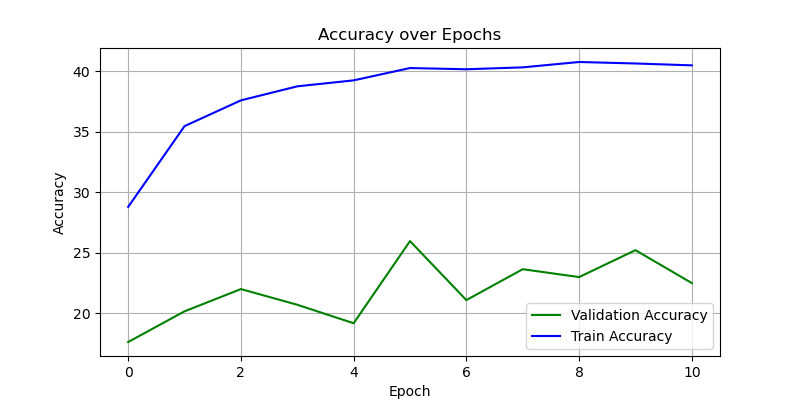
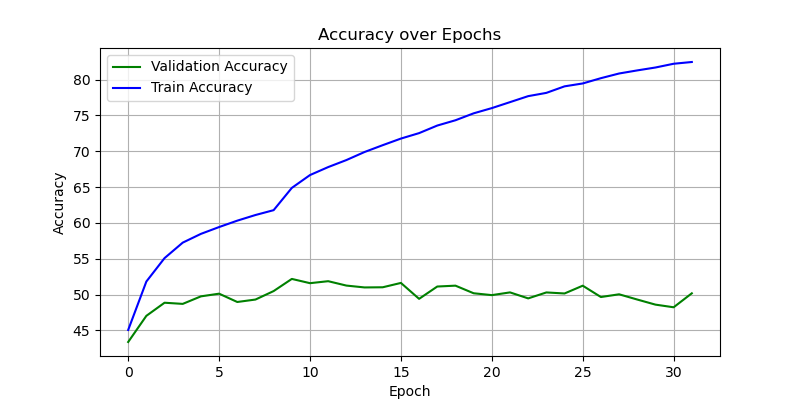
update train_style_encoder(v6) and face_datamodule

diff --git a/train_style_encoder.py b/train_style_encoder.py
@@ -45,40 +45,39 @@ class EarlyStopping:
         model.load_state_dict(self.best_model_state)
 
 class StyleEncoderContrastive(nn.Module):
-    def __init__(self, external_mapping, channels=512, features=26, num_classes=7):
+    def __init__(self, external_mapping, channels=512, features=26,  num_classes=7):
+        # features is K*k +1 which here k is 5
         super(StyleEncoderContrastive, self).__init__()
         self.external_mapping = external_mapping
         self.channels = channels
         self.features = features
-
-        self.global_pool = nn.AdaptiveAvgPool1d(1)  # convert (B, C, T) to (B, C)
+        self.flatten = nn.Flatten()
 
         self.classifier = nn.Sequential(
-            nn.BatchNorm1d(features * features),
-            nn.Linear(features * features, 512),
+            nn.Linear(channels*features, 512),
             nn.ReLU(),
             nn.Dropout(0.3),
 
-            nn.BatchNorm1d(512),
             nn.Linear(512, 256),
             nn.ReLU(),
             nn.Dropout(0.3),
 
-            nn.BatchNorm1d(256),
-            nn.Linear(256, num_classes)
+            nn.Linear(256, 128),
+            nn.ReLU(),
+            nn.Dropout(0.3),
+
+            nn.Linear(128, num_classes)
         )
 
     def forward(self, features):
-        z = self.external_mapping(features)  # shape: (B, 26, 512)
-        z_t = z.transpose(1, 2)  # (B, 512, 26)
-        z_pooled = self.global_pool(z_t).squeeze(-1)  # (B, 512)
+        # features[0] shape: torch.Size([8, 64, 56, 56])
 
-        z_out = torch.bmm(z, z_pooled.unsqueeze(2)).squeeze(-1)  # (B, 26)
-        z_out = torch.bmm(z_out.unsqueeze(2), z_out.unsqueeze(1))  # (B, 26, 26)
-        z_out = z_out.view(z_out.size(0), -1)  # Flatten to (B, 676)
+        z = self.external_mapping(features)  # spatial: (B, C, H, W)
+        # z shape: torch.Size([8, 26, 512])
+        z = self.flatten(z)
 
-        logits = self.classifier(z_out)
-        return logits, z_out
+        logits = self.classifier(z)
+        return logits, z
 
 
 if __name__ == "__main__":
@@ -229,7 +228,7 @@ if __name__ == "__main__":
         if epoch%5==0:
             torch.save(external_mapping.state_dict(), f"{dirc}/external_mapping_{epoch}_epoch.pth")
 
-        torch.save({'epoch': epoch,
+        torch.save({'epoch': epoch+1,
                     'model_state_dict': model.state_dict(),
                     'optimizer': optimizer.state_dict(),
                     'loss_history': loss_history,
@@ -250,18 +249,40 @@ if __name__ == "__main__":
     model.eval()
     y_true = []
     y_pred = []
+
+    all_embeddings = []
+    all_labels = []
+
     with torch.no_grad():
-        for batch in test_dataloader:
+        for batch in tqdm(test_dataloader):
             batch = {k: v.to(device) for k, v in batch.items()}
             _, spatial = recognition_model(batch["id_img"])
-            logits, _ = model(spatial)
+            logits, embedding = model(spatial)
 
             preds = torch.argmax(logits, dim=1)
+            all_embeddings.append(embedding.cpu())
+            all_labels.append(batch['src_label'].cpu())
 
             y_true+=batch['src_label'].cpu()
             y_pred+=preds.cpu()
 
     print(classification_report(y_true, y_pred))
+
+    embeddings = torch.cat(all_embeddings, dim=0).numpy()
+    labels = torch.cat(all_labels, dim=0).numpy()
+
+    perplexity = min(10, len(embeddings) - 1)
+    tsne = TSNE(n_components=2, perplexity=perplexity, random_state=42)
+    reduced = tsne.fit_transform(embeddings)
+
+    plt.figure(figsize=(8, 6))
+    for i in range(7):
+        idx = labels == i
+        plt.scatter(reduced[idx, 0], reduced[idx, 1], label=f'Class {i}', alpha=0.7)
+    plt.legend()
+    plt.title('t-SNE visualization of expression embeddings')
+    plt.savefig('tSNE.png')
+    plt.close()
 
     # === loss , accuracy plots ===
     plt.figure(figsize=(10, 5))
@@ -284,32 +305,4 @@ if __name__ == "__main__":
     plt.legend()
     plt.grid(True)
     plt.savefig('Accuracy.png')
-    plt.close()
-
-    # === TODO t-SNE visualization ===
-    all_embeddings = []
-    all_labels = []
-
-    with torch.no_grad():
-        for batch in val_dataloader:
-            batch = {k: v.to(device) for k, v in batch.items()}
-            _, spatial = recognition_model(batch["id_img"])
-            _, embedding = model(spatial)
-            all_embeddings.append(embedding.cpu())
-            all_labels.append(batch['src_label'].cpu())
-
-    embeddings = torch.cat(all_embeddings, dim=0).numpy()
-    labels = torch.cat(all_labels, dim=0).numpy()
-
-    perplexity = min(30, len(embeddings) - 1)
-    tsne = TSNE(n_components=2, perplexity=perplexity, random_state=42)
-    reduced = tsne.fit_transform(embeddings)
-
-    plt.figure(figsize=(8, 6))
-    for i in range(7):
-        idx = labels == i
-        plt.scatter(reduced[idx, 0], reduced[idx, 1], label=f'Class {i}', alpha=0.7)
-    plt.legend()
-    plt.title('t-SNE visualization of expression embeddings')
-    plt.savefig('tSNE.png')
     plt.close()

diff --git a/datamodules/face_datamodule.py b/datamodules/face_datamodule.py
@@ -12,6 +12,7 @@ class FaceDataModule(LightningDataModule):
             img_size=(48, 48),
             seed=42,
             batch_size=32,
+            num_workers=8,
             transforms_setting=None
     ):
         super().__init__()
@@ -24,9 +25,11 @@ class FaceDataModule(LightningDataModule):
         self.img_size = img_size
         self.seed = seed
         self.batch_size = batch_size
+        self.num_workers = num_workers
         if transforms_setting is None:
             self.transform = transforms.Compose([transforms.Resize(self.img_size),
-                                            transforms.ToTensor()])
+                                                 transforms.ToTensor(),
+                                                 transforms.Normalize((0.5, 0.5, 0.5), (0.5, 0.5, 0.5))])
         else:
             self.transform = transforms_setting
 
@@ -53,7 +56,7 @@ class FaceDataModule(LightningDataModule):
             dataset=self.data_train,
             batch_size=self.batch_size,
             shuffle=True,
-            num_workers=11,
+            num_workers=self.num_workers,
             drop_last=True
         )
 
@@ -62,7 +65,7 @@ class FaceDataModule(LightningDataModule):
             dataset=self.data_val,
             batch_size=self.batch_size,
             shuffle=False,
-            num_workers=11,
+            num_workers=self.num_workers,
             drop_last=True
         )
 

diff --git a/train.py b/train.py
@@ -17,7 +17,7 @@ from utils.os_utils import get_latest_file
 epochs = 30
 n_steps = 1000
 use_pretrained = True  # True: Finetune unet from main dcface, False: Train from 0 unet
-continue_training = True # Training of Trainer
+continue_training = False # Training of Trainer
 
 
 def training(cfg, general_cfg):
@@ -65,7 +65,6 @@ def training(cfg, general_cfg):
 
     # print("Instantiating loggers...")
     # logger = WandbLogger(project=cfg["project"], log_model='all', id=cfg["id"], save_dir=cfg["log_dir"], )
-    print("before train.....................................................................")
     strategy = DDPStrategy(find_unused_parameters=False)
     trainer = pl.Trainer(accelerator="gpu", callbacks=callbacks,
                          strategy=strategy, max_epochs=epochs,
